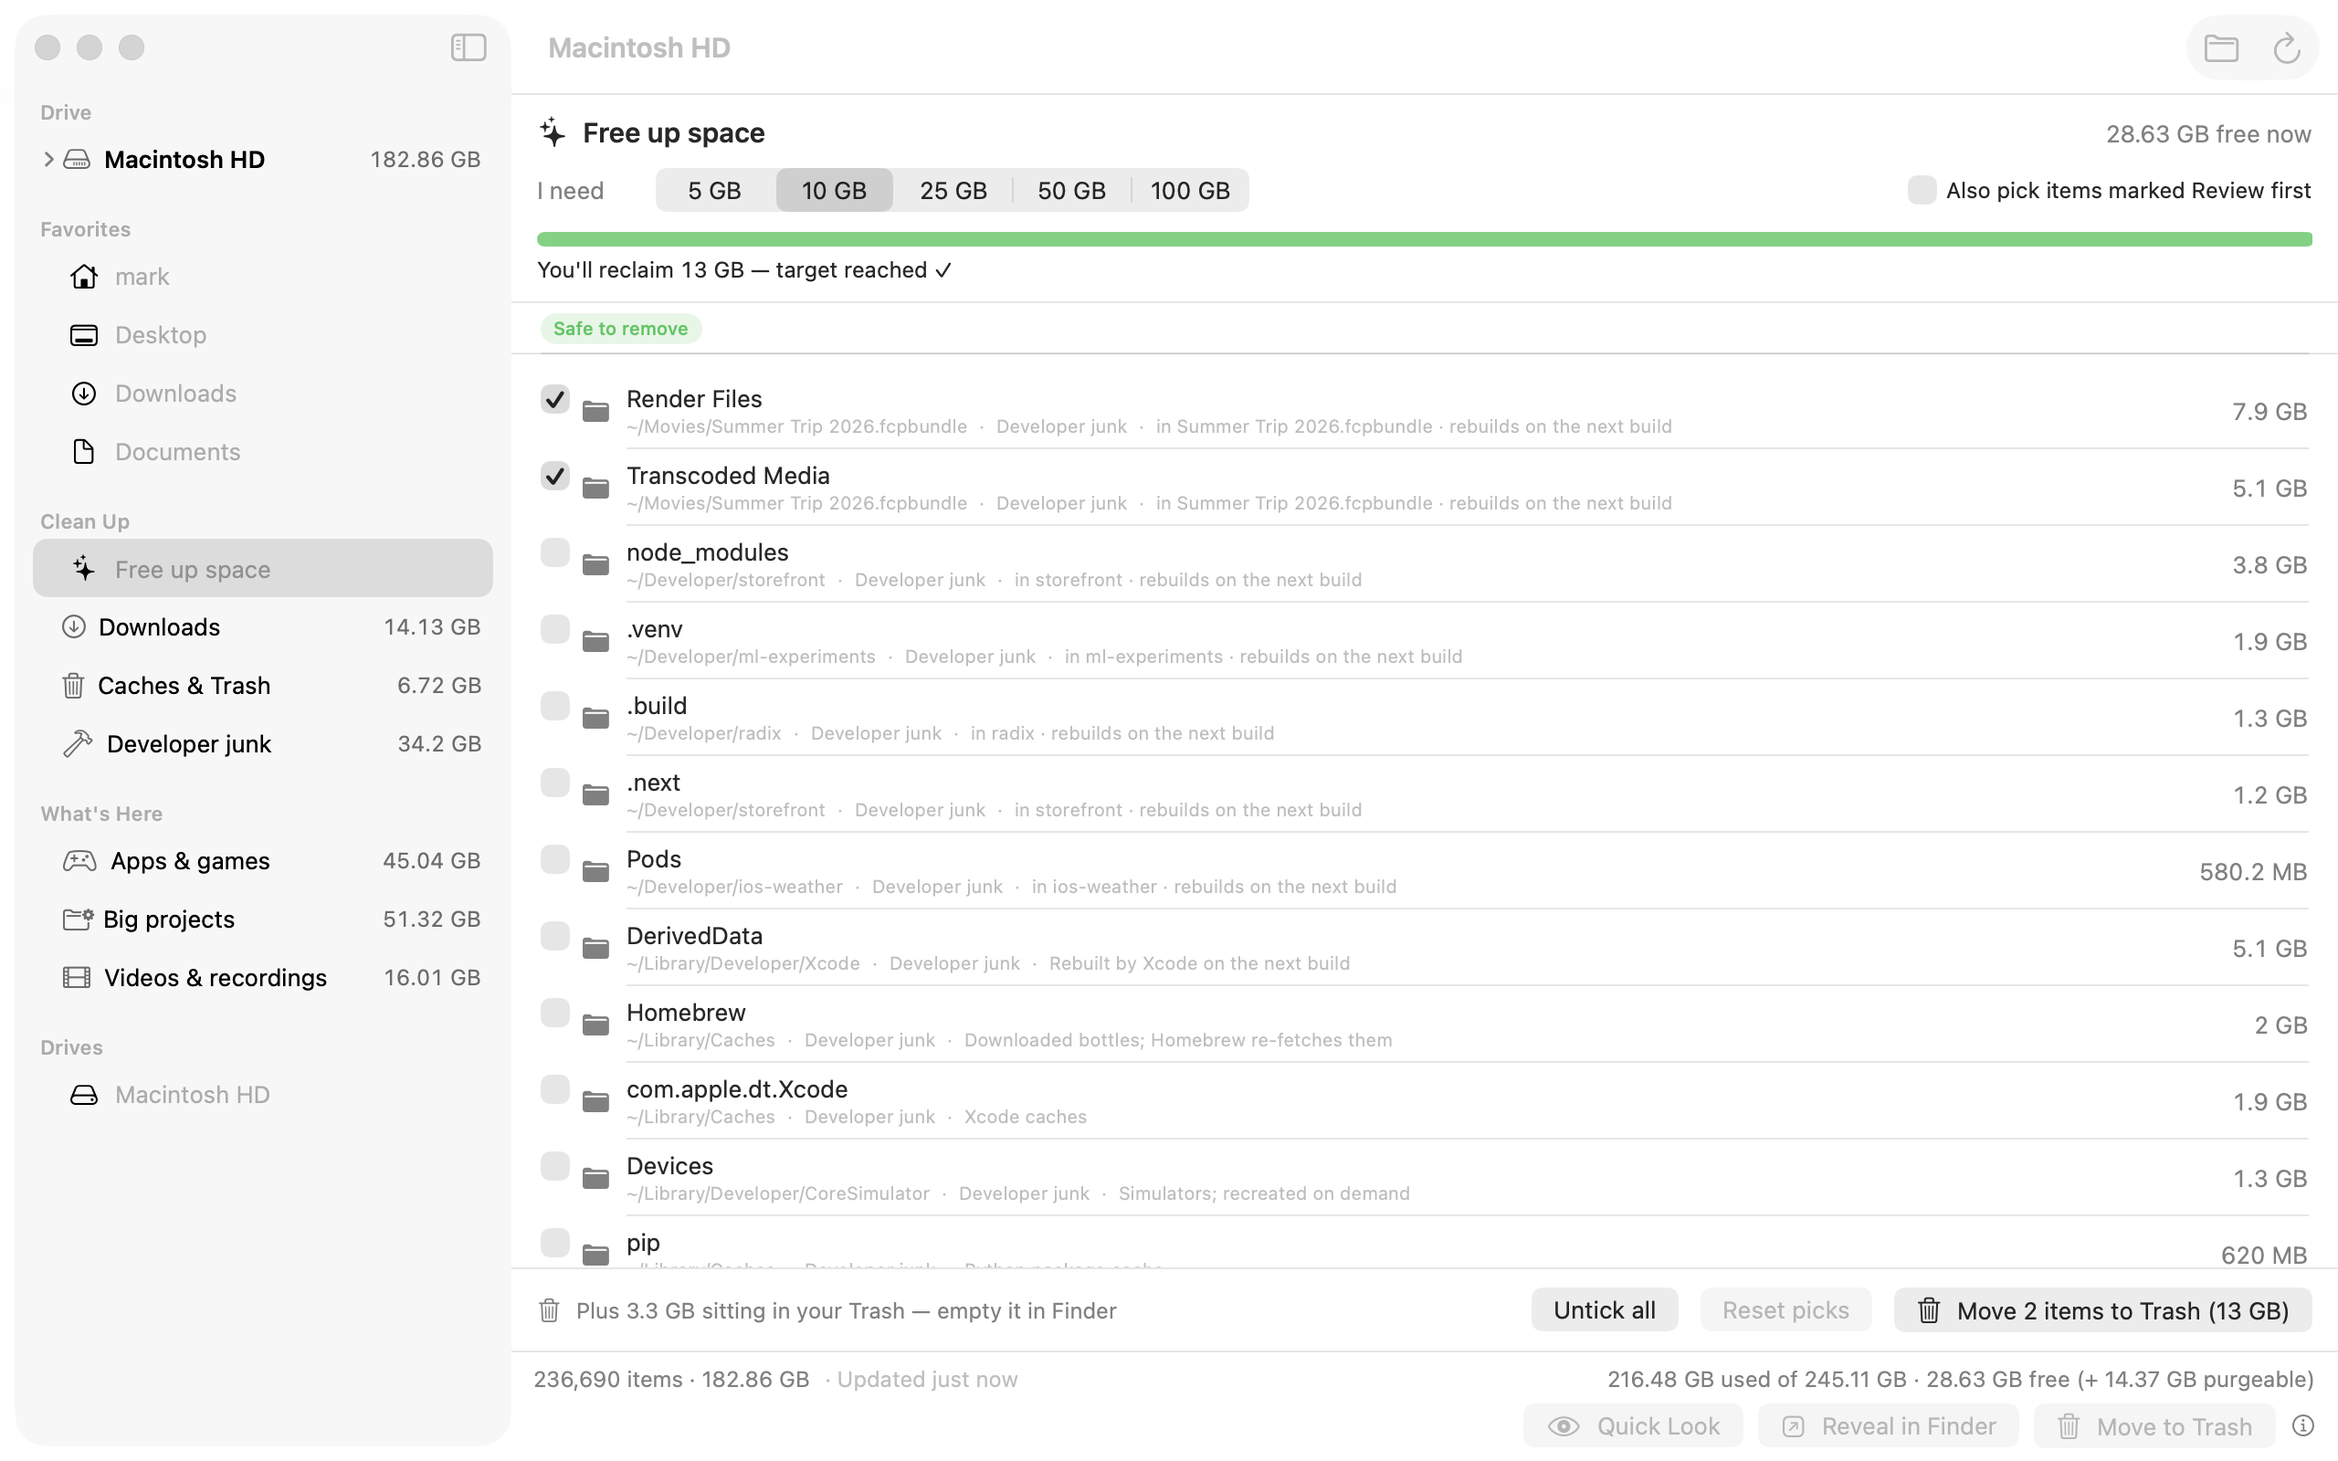
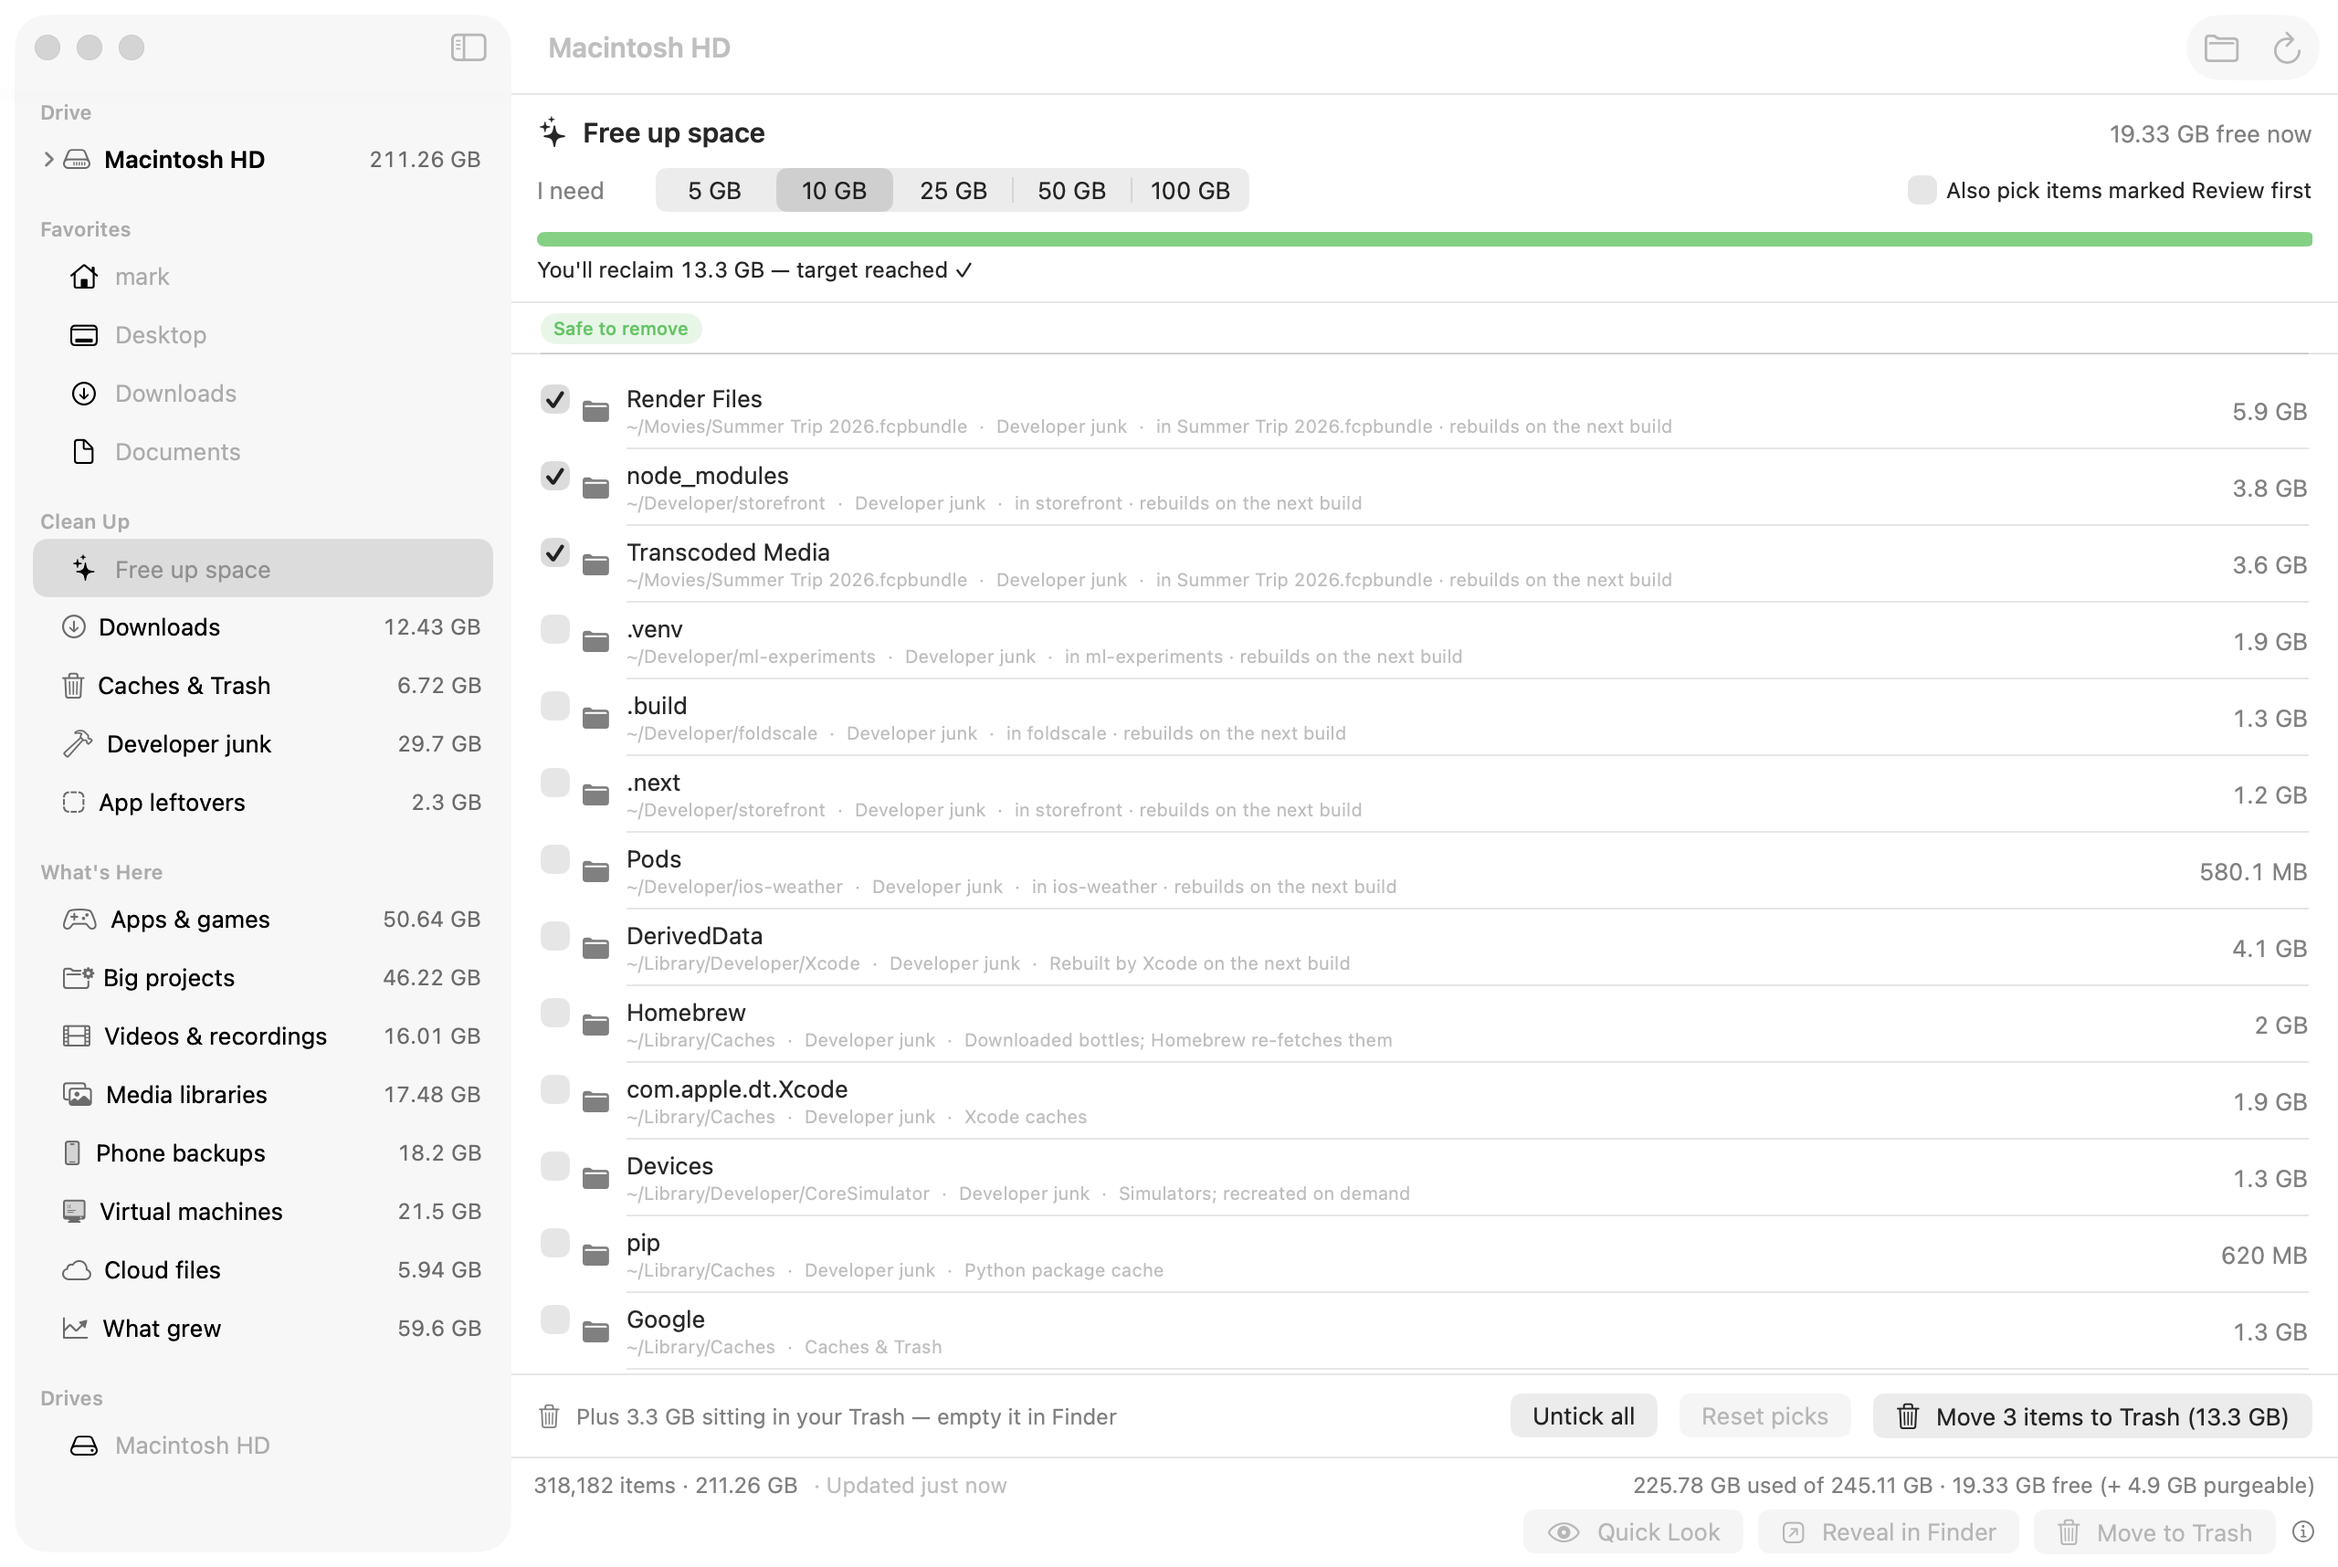
fix(smart-lists): Apple app-group containers are never leftovers; fresh screenshots for all lists
Apple's group containers use a plural "groups." prefix (e.g. 243LU875E5.groups.com.apple.podcasts),
which the group. strip missed, so the Podcasts downloads folder was listed as a leftover on most
Macs. UTM is installed in the demo so its container isn't shown as a leftover next to the VM inside
it. Site/README screenshots recaptured at 1280x880 from the 1.4 demo (twelve lists).

Claude-Session: https://claude.ai/code/session_01T5dt8XVfe4Whps69RK5Zn6

diff --git a/Tests/FoldscaleCoreTests/SmartListPhase4Tests.swift b/Tests/FoldscaleCoreTests/SmartListPhase4Tests.swift
@@ -205,6 +205,7 @@ final class SmartListPhase4Tests: XCTestCase {
                                 folder("UBF8T346G9.com.microsoft.oneauth", 60 * megabyte),
                                 folder("2BUA8C4S2C.com.agilebits", 300 * megabyte),
                                 folder("group.com.apple.notes", 90 * megabyte),
+                                folder("243LU875E5.groups.com.apple.podcasts", 1_100 * megabyte),
                                 folder("group.com.tinyspeck.slackmacgap", 70 * megabyte),
                                 folder("6N38VWS5BX.group.ru.keepcoder.telegram", 80 * megabyte),
                             ]),
@@ -250,6 +251,9 @@ final class SmartListPhase4Tests: XCTestCase {
             FreeUpPlanner.priority(.appLeftovers, "Support data", .reviewFirst),
             FreeUpPlanner.priority(.bigProjects, "Code", .reviewFirst),
             "leftovers are picked before projects when 'Review first' is on")
+        XCTAssertFalse(
+            result.entries.contains { tree.name(of: $0.node) == "243LU875E5.groups.com.apple.podcasts" },
+            "Apple's app-group containers (plural \"groups.\" prefix) are never leftovers")
     }
 
     func testLeftoverAndCloudNameHelpers() {

diff --git a/Sources/FoldscaleCore/SmartLists/SmartListQuery+Leftovers.swift b/Sources/FoldscaleCore/SmartLists/SmartListQuery+Leftovers.swift
@@ -146,7 +146,9 @@ extension SmartListQuery {
     /// App-group ids (`group.ru.keepcoder.Telegram`) are judged without the prefix.
     static func isOwnedIdentifier(_ identifier: String, _ identity: InstalledIdentity) -> Bool {
         let id = strippingGroupPrefix(identifier.lowercased())
-        if id.hasPrefix("com.apple.") { return true }
+        // Apple's own containers, including app-group ones like
+        // `243LU875E5.groups.com.apple.podcasts` (note the plural "groups." prefix).
+        if id.hasPrefix("com.apple.") || id.contains(".com.apple.") { return true }
         return identity.identifiers.contains(id) || identity.vendors.contains(vendor(of: id))
     }
 

diff --git a/Sources/FoldscaleApp/Dev/DemoMetadataProvider.swift b/Sources/FoldscaleApp/Dev/DemoMetadataProvider.swift
@@ -29,6 +29,7 @@ struct DemoMetadataProvider: BundleInfoProvider {
             name: "Discord", identifier: "com.hnc.Discord", category: "social-networking"),
         "zoom.us.app": BundleInfo(name: "zoom.us", identifier: "us.zoom.xos", category: "business"),
         "Steam.app": BundleInfo(name: "Steam", identifier: "com.valvesoftware.steam", category: "games"),
+        "UTM.app": BundleInfo(name: "UTM", identifier: "com.utmapp.UTM", category: "developer-tools"),
         "Arc.app": BundleInfo(
             name: "Arc", identifier: "company.thebrowser.Browser", category: "productivity"),
         // Teams is gone but Word/Excel share its vendor, so its container is "owned";

diff --git a/Sources/FoldscaleApp/Dev/DemoTree.swift b/Sources/FoldscaleApp/Dev/DemoTree.swift
@@ -124,6 +124,7 @@ enum DemoTree {
             gen.blob("Discord.app", 290 * mb, files: 260, days: 4)
             gen.blob("zoom.us.app", 260 * mb, files: 200, days: 30)
             gen.blob("Steam.app", 210 * mb, files: 150, days: 5)
+            gen.blob("UTM.app", 180 * mb, files: 120, days: 12)
             gen.blob("Utilities", 20 * mb, files: 40, days: 300)
         }
     }

diff --git a/CHANGELOG.md b/CHANGELOG.md
@@ -6,6 +6,10 @@ releasing. Format: [Keep a Changelog](https://keepachangelog.com/en/1.1.0/).
 
 ## [Unreleased]
 
+### Fixed
+- App leftovers no longer lists Apple's own app-group containers (for example the Podcasts
+  downloads folder, `…groups.com.apple.podcasts`) as leftovers.
+
 ## [1.4.0] - 2026-08-26
 
 ### Added
